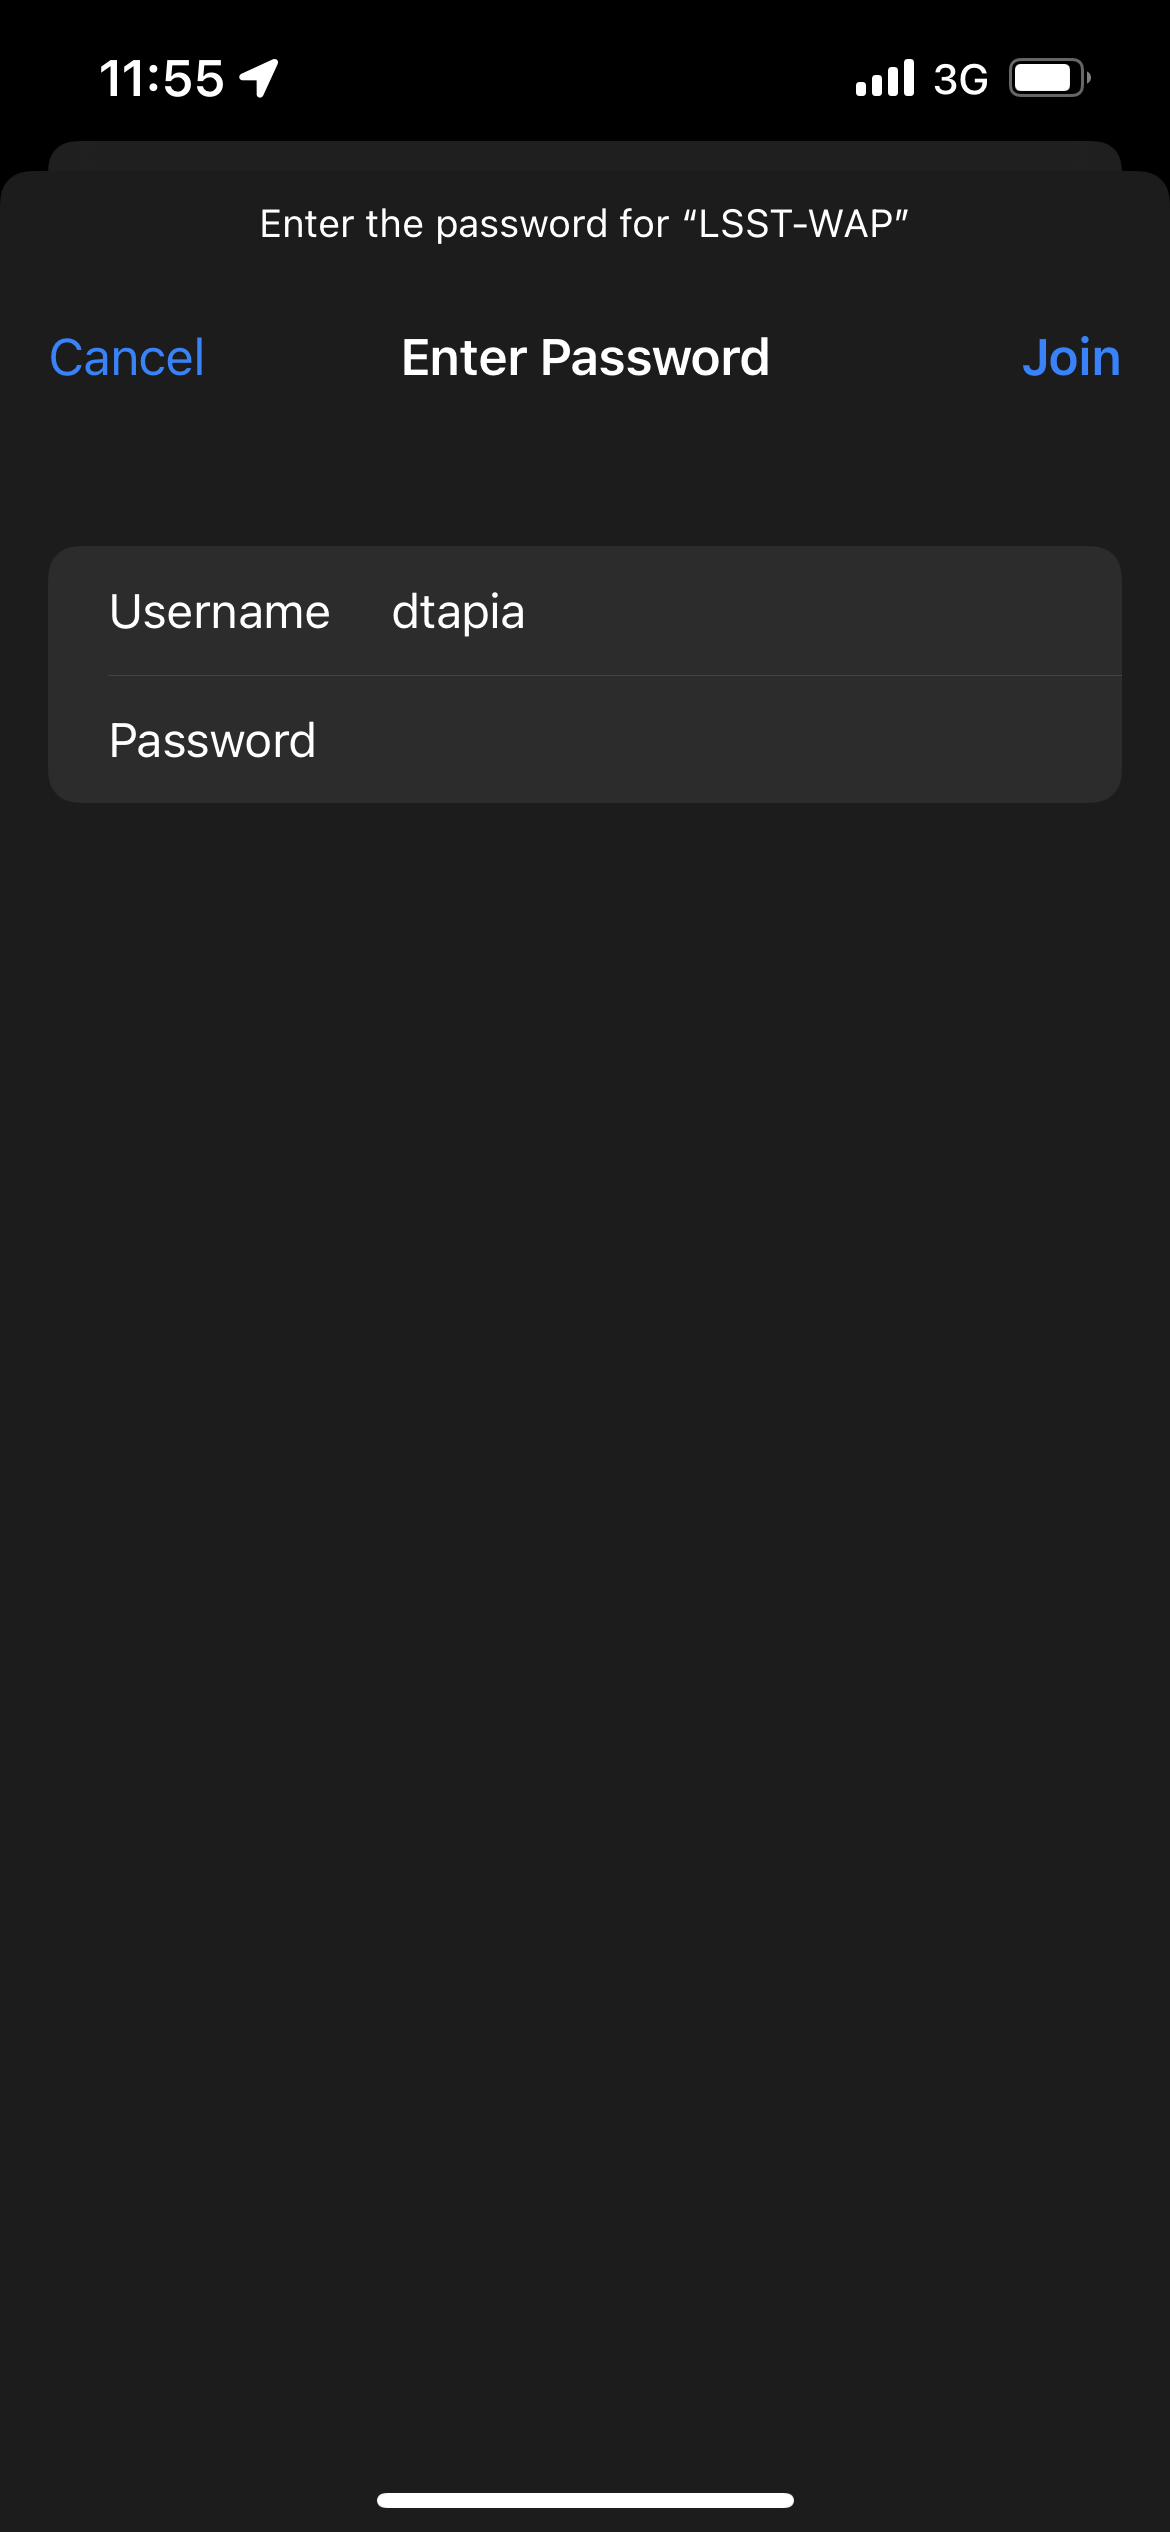
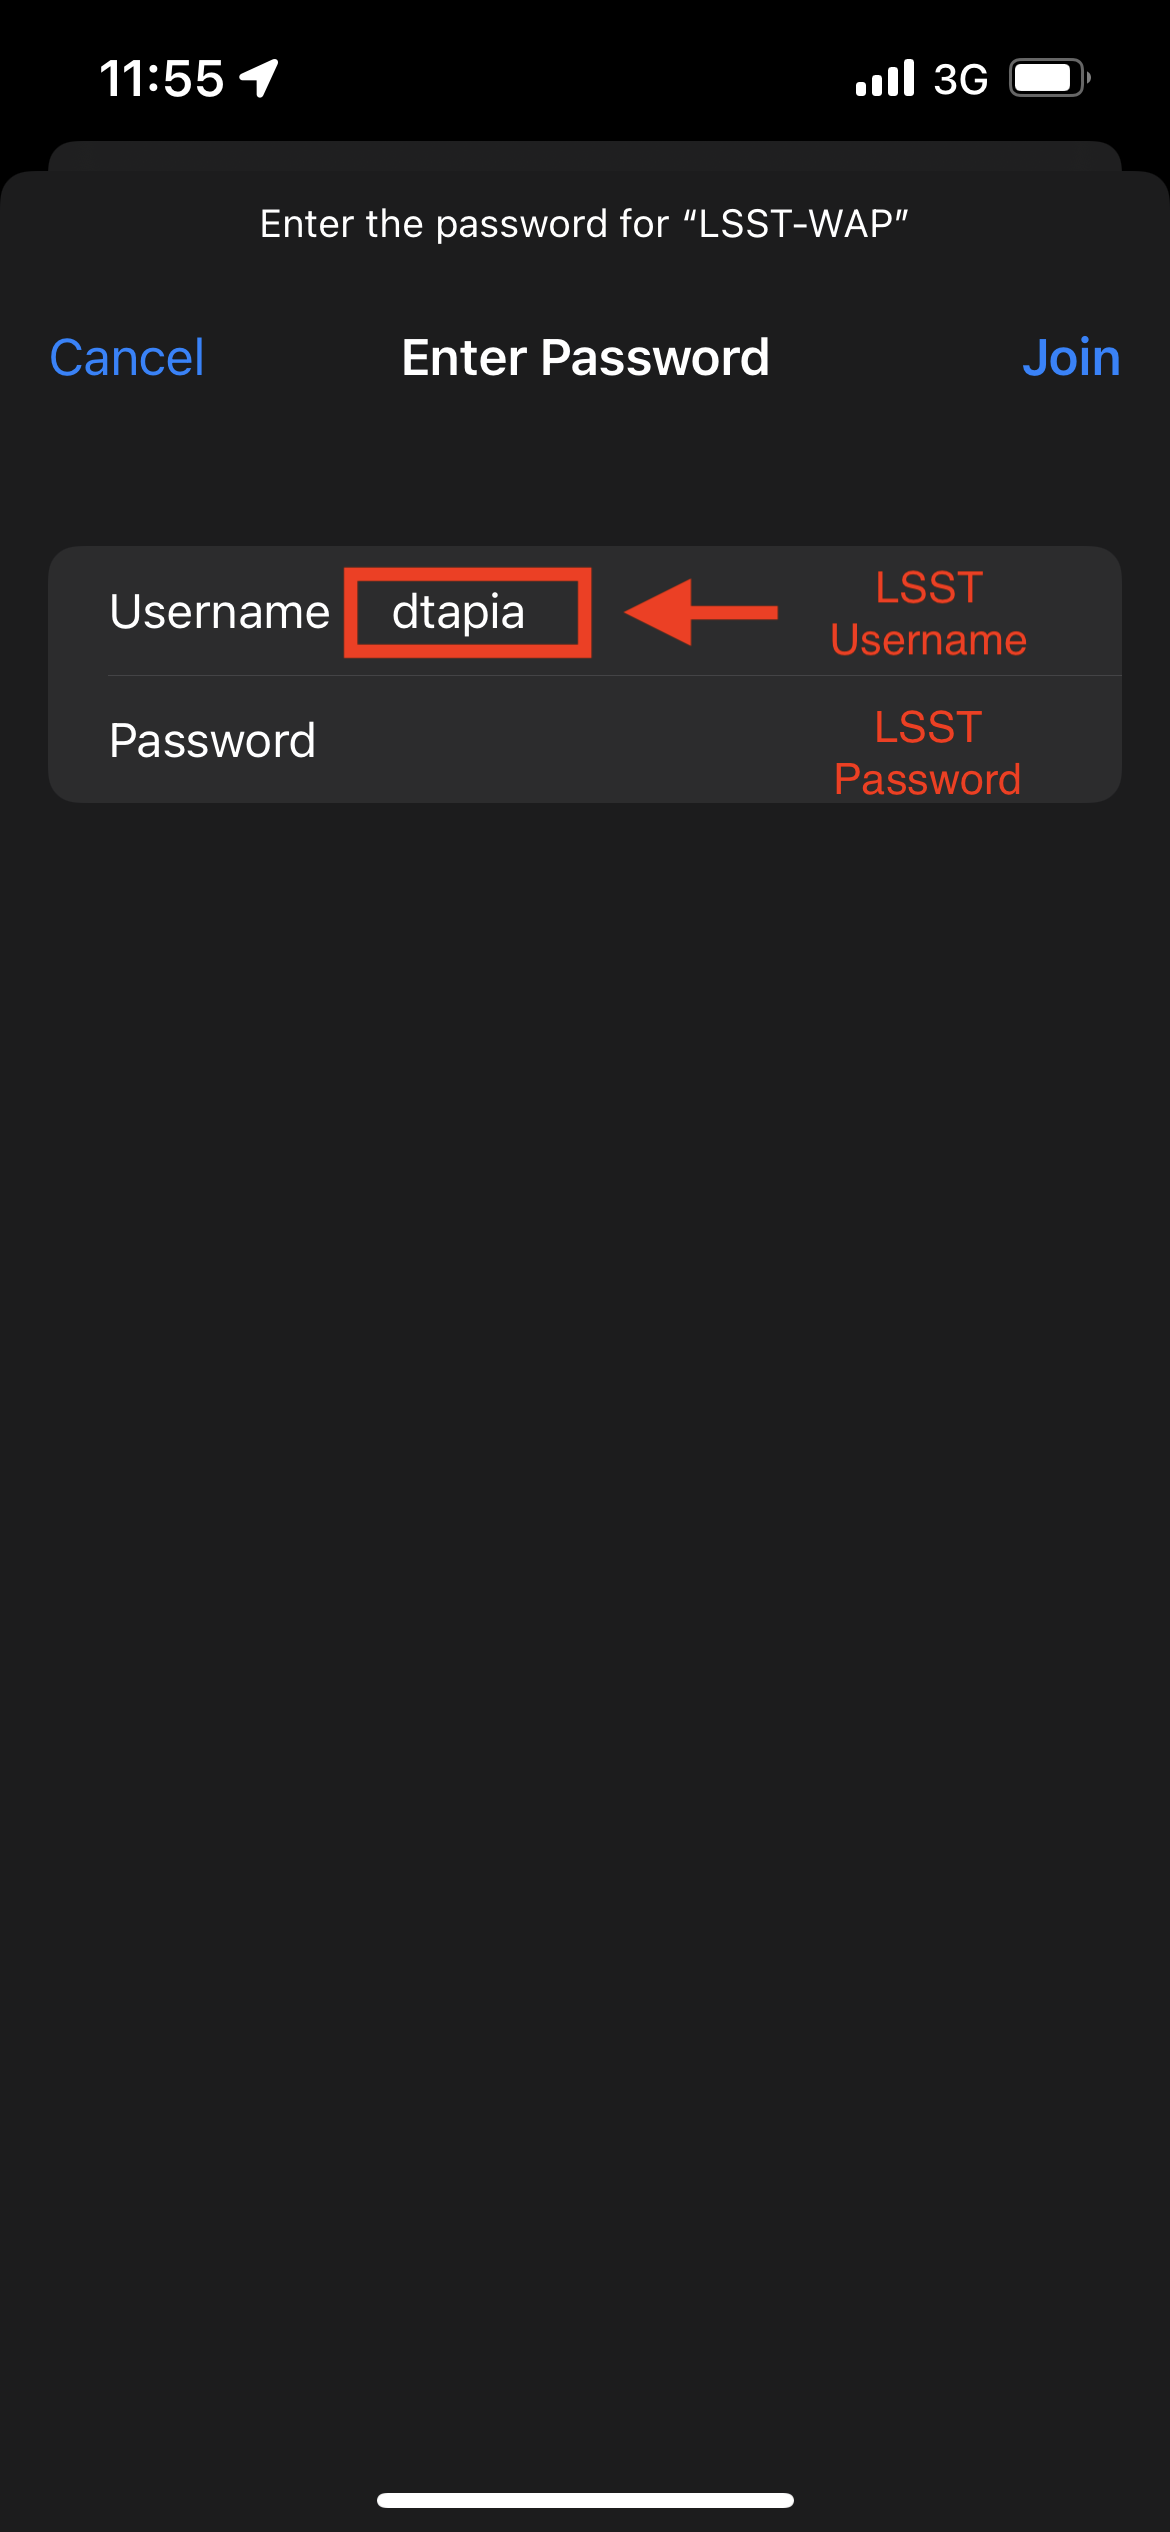
Update to Image format 2

Changed region(s): [[0.2769, 0.2184, 0.6769, 0.2808], [0.7077, 0.2184, 0.8615, 0.312]]

diff --git a/technical.tex b/technical.tex
@@ -256,9 +256,18 @@ To request Domain Account Credentials, it is required that an Onboarding form is
       \includegraphics[width=\textwidth]{Images/ios1.png}
       \caption*{Select the LSST WAP WIFI Network}  
     \end{subfigure}
+      \hfill
+    \begin{subfigure}{0.30\textwidth}
+      \includegraphics[width=\textwidth]{Images/ios2.png}
+      \caption*{Log in with your domain account credentials}
+      \hfill
+    \begin{subfigure}{0.30\textwidth}
+      \includegraphics[width=\textwidth]{Images/ios3.png}
+      \caption*{Accept the certificate}
   \end{figure}
 
 
+\newpage
 
 \section{Access to Nublado, EFD/Chronograph and other SQuaRE services}
 \label{sec:Nublado}
